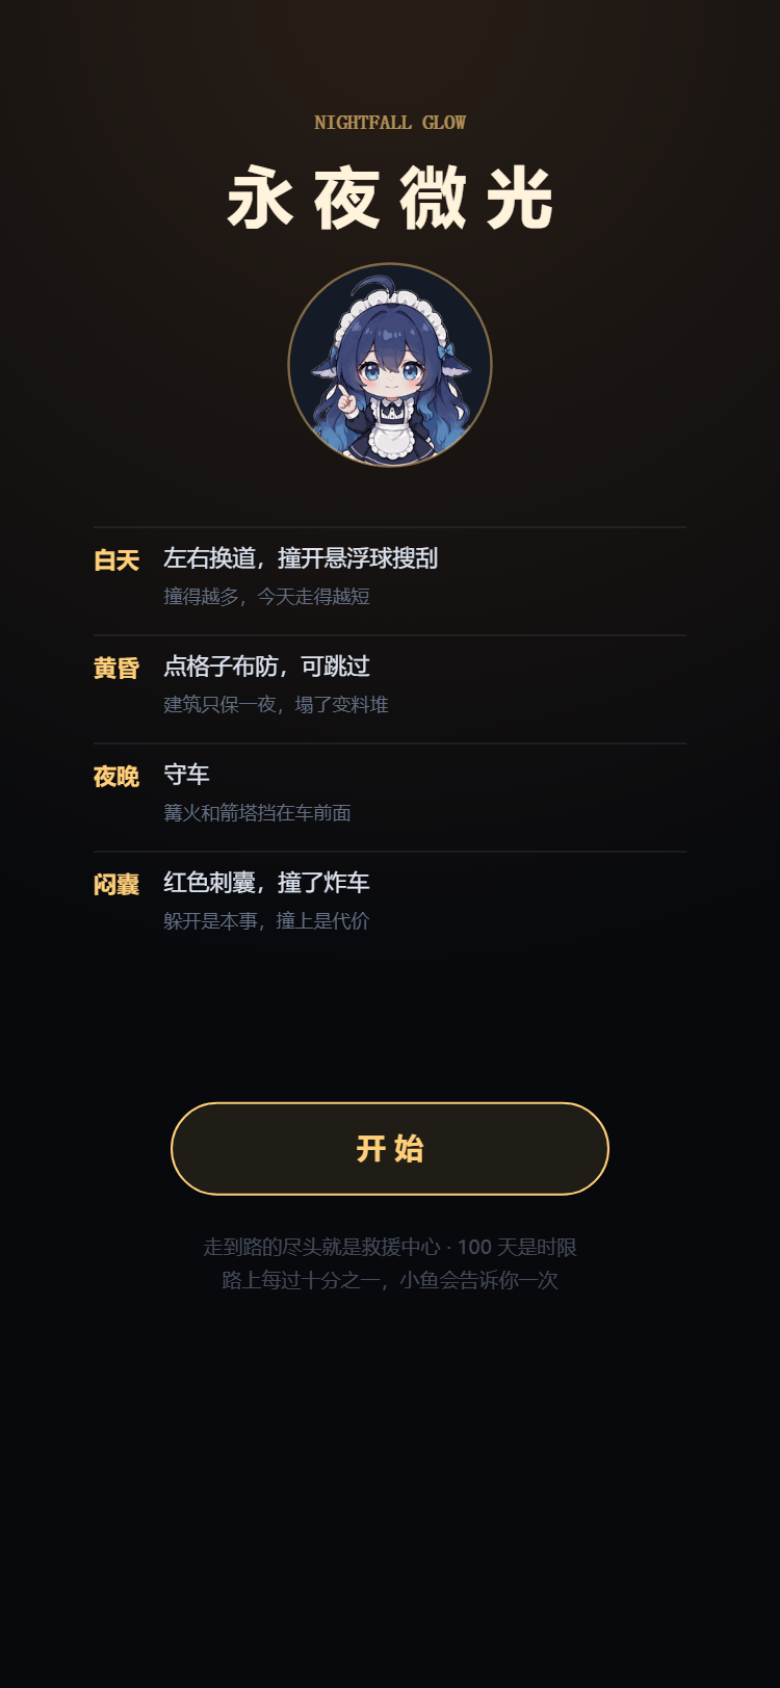
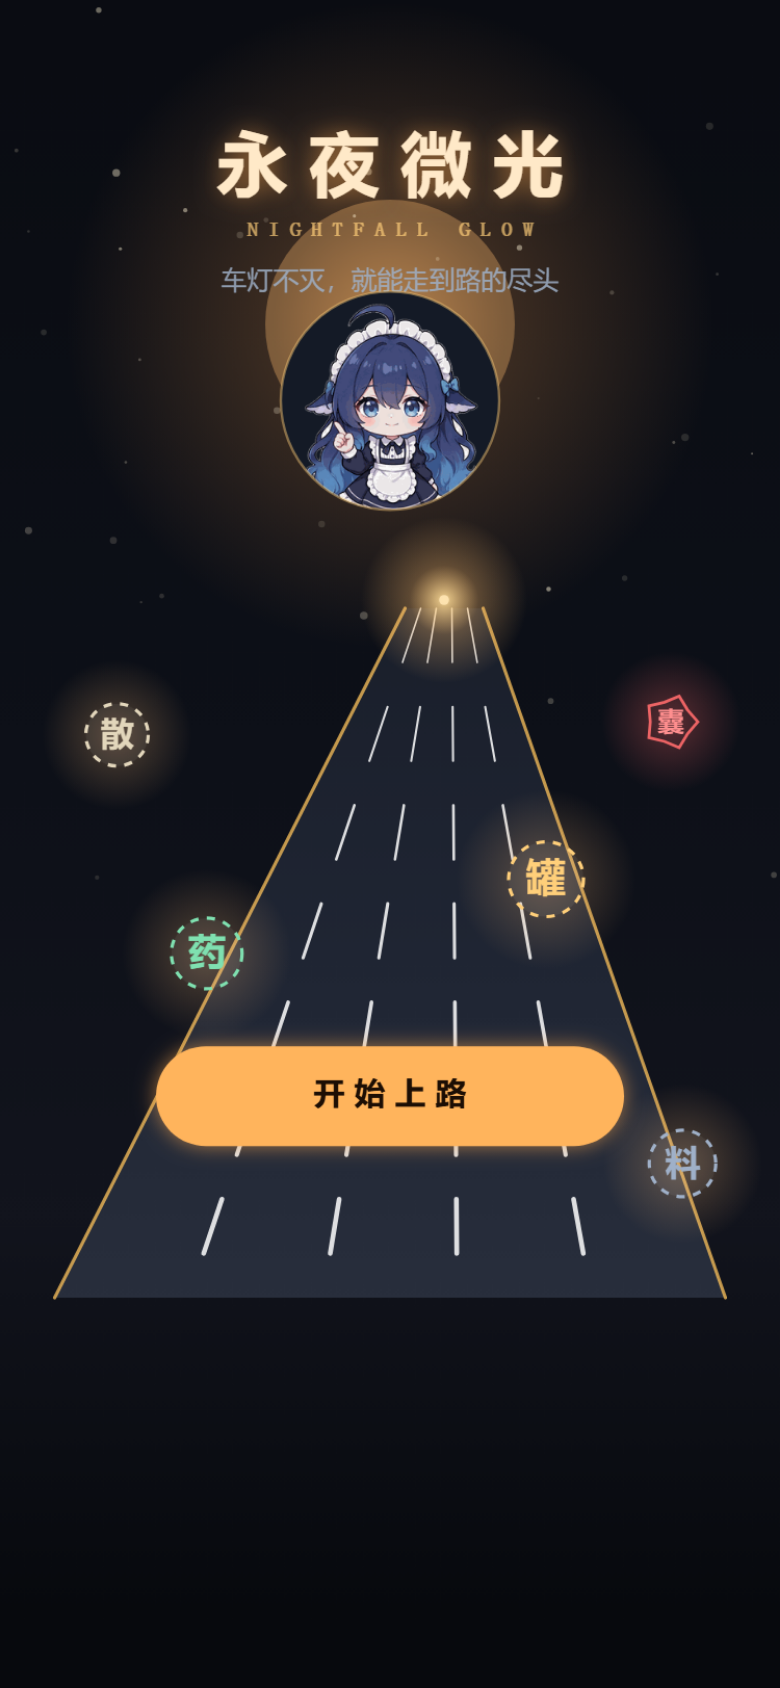
v2.11 封面重做：海报级画面替代文字版式
用户反馈「封面不出彩，看着没啥吸引力」。

旧封面 = 纯黑底 + 居中头像 + 四行规则文字 + 空心按钮，无画面感。

新封面（电影海报思路，全部复用游戏自己的视觉语言）：
- 背景：夜空渐变 + 尘幕暗黄太阳 + 闪烁星点（固定种子不抖）
- 主体：一条斜向远方的公路（冷黑路面 + 白虚线 + 黄路沿，与游戏内风格一致）
- 玩法元素：散/罐/药/料四色悬浮球 + 红色闷囊漂浮在路上（带呼吸浮动与光晕）
- 主题意象：路顶端一颗救援中心的暖光点
- 标题「永夜微光」发光大字 + NIGHTFALL GLOW + 副标题「车灯不灭，就能走到路的尽头」
- 小鱼头像加大并轻微浮动
- 按钮：实心暖光「开始上路」/ 有档时实心绿「继续·第N天·P%」，带呼吸光晕
- 新增 roundRectPath 圆角路径工具

验证：Node 3 局 89 天 / 803~808 户全胜；无档/有档两版封面截图正常。

diff --git a/minigame/js/game.js b/minigame/js/game.js
@@ -1871,72 +1871,262 @@ function drawAvatar(x, y, r) {
 }
 
 function drawCover() {
-  ctx.fillStyle = "#07090d";
-  ctx.fillRect(0, 0, W, H);
-  var g = ctx.createRadialGradient(W / 2, 0, 20, W / 2, 0, H * 0.62);
-  g.addColorStop(0, "rgba(255,166,84,.13)");
-  g.addColorStop(1, "rgba(255,166,84,0)");
+  var t = (typeof performance !== "undefined" && performance.now) ? performance.now() : 0;
+  var tt = t / 1000;
+
+  /* ---- 背景：夜空 + 尘幕太阳 ---- */
+  var g = ctx.createLinearGradient(0, 0, 0, H);
+  g.addColorStop(0, "#0a0c12");
+  g.addColorStop(0.45, "#0d1018");
+  g.addColorStop(0.75, "#12141d");
+  g.addColorStop(1, "#07090d");
   ctx.fillStyle = g;
   ctx.fillRect(0, 0, W, H);
 
-  txt("NIGHTFALL GLOW", W / 2, H * 0.075, 10, "rgba(255,207,122,.65)", "center", "600", "monospace");
-  txt("永 夜 微 光", W / 2, H * 0.125, 32, "#fff3dc", "center", "700");
-  drawAvatar(W / 2, H * 0.225, Math.min(52, W * 0.13));
+  /* 尘幕太阳：一轮被灰霾压住的暗黄 */
+  var sunX = W * 0.5, sunY = H * 0.20, sunR = W * 0.16;
+  var sg = ctx.createRadialGradient(sunX, sunY, 2, sunX, sunY, sunR * 2.6);
+  sg.addColorStop(0, "rgba(255,176,96,.55)");
+  sg.addColorStop(0.35, "rgba(255,166,84,.20)");
+  sg.addColorStop(1, "rgba(255,166,84,0)");
+  ctx.fillStyle = sg;
+  ctx.fillRect(0, 0, W, H);
+  ctx.save();
+  ctx.beginPath(); ctx.arc(sunX, sunY, sunR, 0, 6.2832);
+  ctx.fillStyle = "rgba(255,188,110,.34)";
+  ctx.fill();
+  ctx.restore();
 
-  var rules = [
-    ["白天", "左右换道，撞开悬浮球搜刮", "撞得越多，今天走得越短"],
-    ["黄昏", "点格子布防，可跳过", "建筑只保一夜，塌了变料堆"],
-    ["夜晚", "守车", "篝火和箭塔挡在车前面"],
-    ["闷囊", "红色刺囊，撞了炸车", "躲开是本事，撞上是代价"]
+  /* 星点（固定伪随机，不抖） */
+  ctx.save();
+  var seed = 987654321;
+  function srand() { seed = (seed * 1103515245 + 12345) & 0x7fffffff; return seed / 0x7fffffff; }
+  for (var si = 0; si < 40; si++) {
+    var sx = srand() * W, sy = srand() * H * 0.55;
+    var ss = 0.5 + srand() * 1.4;
+    var sa = 0.12 + srand() * 0.5 * (0.5 + 0.5 * Math.sin(tt * 1.5 + si));
+    ctx.fillStyle = "rgba(255,244,214," + sa.toFixed(3) + ")";
+    ctx.beginPath(); ctx.arc(sx, sy, ss, 0, 6.2832); ctx.fill();
+  }
+  ctx.restore();
+
+  /* ---- 公路：一条斜向远方的冷黑路面（呼应游戏内风格） ---- */
+  var roadTop = H * 0.375, roadBot = H * 0.80;
+  var roadWTop = W * 0.10, roadWBot = W * 0.86;
+  var cx = W * 0.5;
+  var roadTilt = 26;  // 左高右低，带斜角
+  ctx.save();
+  ctx.beginPath();
+  ctx.moveTo(cx - roadWTop / 2 + roadTilt, roadTop);
+  ctx.lineTo(cx + roadWTop / 2 + roadTilt, roadTop);
+  ctx.lineTo(cx + roadWBot / 2, roadBot);
+  ctx.lineTo(cx - roadWBot / 2, roadBot);
+  ctx.closePath();
+  var rg = ctx.createLinearGradient(0, roadTop, 0, roadBot);
+  rg.addColorStop(0, "#1a1f2b");
+  rg.addColorStop(0.55, "#202634");
+  rg.addColorStop(1, "#282e3c");
+  ctx.fillStyle = rg;
+  ctx.fill();
+
+  /* 车道虚线（白，近粗远细）+ 黄色边线（银护栏感） */
+  ctx.strokeStyle = "rgba(255,255,255,.85)";
+  ctx.lineCap = "round";
+  var laneN = 5;
+  for (var lc = 1; lc < laneN; lc++) {
+    var frac = lc / laneN;
+    var dxTop = cx + roadTilt + (frac - 0.5) * roadWTop;
+    var dxBot = cx + (frac - 0.5) * roadWBot;
+    var segN = 7;
+    for (var sn = 0; sn < segN; sn++) {
+      var p0 = sn / segN, p1 = (sn + 0.55) / segN;
+      var y0 = roadTop + (roadBot - roadTop) * p0;
+      var y1 = roadTop + (roadBot - roadTop) * p1;
+      var xa = dxTop + (dxBot - dxTop) * p0;
+      var xb = dxTop + (dxBot - dxTop) * p1;
+      ctx.lineWidth = 0.6 + 1.8 * (p0 + 0.1);
+      ctx.beginPath(); ctx.moveTo(xa, y0); ctx.lineTo(xb, y1); ctx.stroke();
+    }
+  }
+  /* 黄色路沿（左右两条） */
+  ctx.strokeStyle = "#ffc45c";
+  ctx.lineWidth = 1.6;
+  ctx.globalAlpha = 0.75;
+  ctx.beginPath();
+  ctx.moveTo(cx - roadWTop / 2 + roadTilt, roadTop);
+  ctx.lineTo(cx - roadWBot / 2, roadBot);
+  ctx.stroke();
+  ctx.beginPath();
+  ctx.moveTo(cx + roadWTop / 2 + roadTilt, roadTop);
+  ctx.lineTo(cx + roadWBot / 2, roadBot);
+  ctx.stroke();
+  ctx.globalAlpha = 1;
+  ctx.restore();
+
+  /* ---- 路面上的悬浮球：核心玩法元素，带暖光晕 ---- */
+  var orbDefs = [
+    { ch: "散", col: "#e2d6bb", x: 0.15, y: 0.455, r: 15 },
+    { ch: "罐", col: "#ffcf7a", x: 0.70, y: 0.545, r: 18 },
+    { ch: "药", col: "#7fe0b0", x: 0.265, y: 0.585, r: 17 },
+    { ch: "料", col: "#9fb0c8", x: 0.875, y: 0.715, r: 16 }
   ];
-  var ry = H * 0.325, rh = Math.min(52, (H * 0.62 - ry) / 4);
-  for (var i = 0; i < rules.length; i++) {
-    var r0 = rules[i];
+  for (var oi = 0; oi < orbDefs.length; oi++) {
+    var od = orbDefs[oi];
+    var ox = W * od.x, oy = H * od.y;
+    var bob = Math.sin(tt * 1.8 + oi * 1.7) * 3;
+    var oyy = oy + bob;
+    /* 光晕 */
+    var og = ctx.createRadialGradient(ox, oyy, 2, ox, oyy, od.r * 2.4);
+    og.addColorStop(0, "rgba(255,190,120,.28)");
+    og.addColorStop(1, "rgba(255,190,120,0)");
+    ctx.fillStyle = og;
+    ctx.beginPath(); ctx.arc(ox, oyy, od.r * 2.4, 0, 6.2832); ctx.fill();
+    /* 球体 */
     ctx.save();
-    ctx.strokeStyle = "rgba(255,255,255,.07)";
-    ctx.beginPath(); ctx.moveTo(W * 0.12, ry + i * rh); ctx.lineTo(W * 0.88, ry + i * rh); ctx.stroke();
+    ctx.beginPath(); ctx.arc(ox, oyy, od.r, 0, 6.2832);
+    ctx.fillStyle = "rgba(255,255,255,.06)";
+    ctx.fill();
+    ctx.setLineDash([4, 4]);
+    ctx.strokeStyle = od.col;
+    ctx.lineWidth = 1.6;
+    ctx.stroke();
     ctx.restore();
-    txt(r0[0], W * 0.12, ry + i * rh + rh * 0.32, 11, "#ffcf7a", "left", "700");
-    txt(r0[1], W * 0.21, ry + i * rh + rh * 0.30, 11, "#dfe6f2", "left", "500");
-    txt(r0[2], W * 0.21, ry + i * rh + rh * 0.66, 9, "rgba(111,124,146,.9)", "left", "400");
+    txt(od.ch, ox, oyy + 1, od.r * 1.05, od.col, "center", "700");
+  }
+  /* 一个红色闷囊（危险品） */
+  var hz = { x: W * 0.86, y: H * 0.445, r: 13 };
+  var hzg = ctx.createRadialGradient(hz.x, hz.y, 2, hz.x, hz.y, hz.r * 2.6);
+  hzg.addColorStop(0, "rgba(255,107,107,.30)");
+  hzg.addColorStop(1, "rgba(255,107,107,0)");
+  ctx.fillStyle = hzg;
+  ctx.beginPath(); ctx.arc(hz.x, hz.y, hz.r * 2.6, 0, 6.2832); ctx.fill();
+  ctx.save();
+  ctx.beginPath();
+  for (var hi = 0; hi < 10; hi++) {
+    var ha = hi / 10 * 6.2832;
+    var hr = hi % 2 ? hz.r * 0.76 : hz.r * 1.0;
+    var hx = hz.x + Math.cos(ha) * hr, hy = hz.y + Math.sin(ha) * hr;
+    if (hi === 0) ctx.moveTo(hx, hy); else ctx.lineTo(hx, hy);
+  }
+  ctx.closePath();
+  ctx.strokeStyle = "rgba(255,107,107,.9)";
+  ctx.lineWidth = 1.4;
+  ctx.stroke();
+  ctx.restore();
+  txt("囊", hz.x, hz.y + 1, 13, "#ff8f8f", "center", "700");
+
+  /* ---- 远处暖光点（救援中心的灯，呼应主题） ---- */
+  var glX = cx + roadTilt, glY = roadTop - 4;
+  var glg = ctx.createRadialGradient(glX, glY, 1, glX, glY, 40);
+  glg.addColorStop(0, "rgba(255,220,150,.9)");
+  glg.addColorStop(0.4, "rgba(255,190,110,.30)");
+  glg.addColorStop(1, "rgba(255,190,110,0)");
+  ctx.fillStyle = glg;
+  ctx.beginPath(); ctx.arc(glX, glY, 40, 0, 6.2832); ctx.fill();
+  ctx.fillStyle = "rgba(255,230,180,.9)";
+  ctx.beginPath(); ctx.arc(glX, glY, 2.4, 0, 6.2832); ctx.fill();
+
+  /* ---- 标题：发光大字 ---- */
+  var titleY = H * 0.105;
+  ctx.save();
+  ctx.shadowColor = "rgba(255,170,80,.55)";
+  ctx.shadowBlur = 22;
+  ctx.fillStyle = "#ffe9c8";
+  ctx.font = "700 34px \"PingFang SC\",\"Microsoft YaHei\",sans-serif";
+  ctx.textAlign = "center"; ctx.textBaseline = "middle";
+  ctx.fillText("永 夜 微 光", W / 2, titleY);
+  ctx.restore();
+  ctx.save();
+  ctx.fillStyle = "rgba(255,207,122,.7)";
+  ctx.font = "600 10px monospace";
+  ctx.textAlign = "center"; ctx.textBaseline = "middle";
+  ctx.fillText("N I G H T F A L L   G L O W", W / 2, titleY + 28);
+  ctx.restore();
+  /* 副标题 */
+  ctx.save();
+  ctx.fillStyle = "rgba(159,176,200,.85)";
+  ctx.font = "500 12.5px \"PingFang SC\",\"Microsoft YaHei\",sans-serif";
+  ctx.textAlign = "center"; ctx.textBaseline = "middle";
+  ctx.fillText("车灯不灭，就能走到路的尽头", W / 2, titleY + 54);
+  ctx.restore();
+
+  /* ---- 小鱼：放大、带暖描边、轻微浮动 ---- */
+  var avatarR = Math.min(56, W * 0.14);
+  var avatarY = H * 0.245 + Math.sin(tt * 1.2) * 2.5;
+  drawAvatar(W / 2, avatarY, avatarR);
+
+  /* ---- 底部按钮区 ---- */
+  var bw2 = Math.min(230, W * 0.6), bh2 = 48, bx2 = (W - bw2) / 2;
+  var sv = loadSave();
+  var breathe = 1 + Math.sin(tt * 2.6) * 0.025;
+
+  if (sv) {
+    var svPct = Math.floor(clamp((sv.totalHouse || 0) / HOUSE_TOTAL, 0, 1) * 100);
+    var contY = H * 0.615;
+    /* 继续按钮：实心绿，发光 */
+    ctx.save();
+    ctx.shadowColor = "rgba(127,224,176,.55)";
+    ctx.shadowBlur = 18 * breathe;
+    ctx.fillStyle = "#2fbf7f";
+    ctx.beginPath();
+    roundRectPath(bx2, contY, bw2, bh2, bh2 / 2);
+    ctx.fill();
+    ctx.restore();
+    ctx.fillStyle = "#07130d";
+    ctx.font = "600 14px \"PingFang SC\",\"Microsoft YaHei\",sans-serif";
+    ctx.textAlign = "center"; ctx.textBaseline = "middle";
+    ctx.fillText("继续 · 第 " + sv.day + " 天 · " + svPct + "%", W / 2, contY + bh2 / 2);
+    coverBtnCont = { x: bx2, y: contY, w: bw2, h: bh2 };
+
+    var ry2 = contY + bh2 + 14, rh2 = 34;
+    ctx.save();
+    ctx.strokeStyle = "rgba(255,207,122,.5)";
+    ctx.lineWidth = 1;
+    ctx.beginPath(); roundRectPath(bx2, ry2, bw2, rh2, rh2 / 2); ctx.stroke();
+    ctx.restore();
+    ctx.fillStyle = "rgba(255,207,122,.8)";
+    ctx.font = "500 12px \"PingFang SC\",\"Microsoft YaHei\",sans-serif";
+    ctx.textAlign = "center"; ctx.textBaseline = "middle";
+    ctx.fillText("重新开始", W / 2, ry2 + rh2 / 2);
+    coverBtn = { x: bx2, y: ry2, w: bw2, h: rh2 };
+  } else {
+    var by2 = H * 0.645;
+    ctx.save();
+    ctx.shadowColor = "rgba(255,170,80,.6)";
+    ctx.shadowBlur = 20 * breathe;
+    ctx.fillStyle = "#ffb45c";
+    ctx.beginPath();
+    roundRectPath(bx2, by2, bw2, bh2, bh2 / 2);
+    ctx.fill();
+    ctx.restore();
+    ctx.fillStyle = "#1c0e04";
+    ctx.font = "700 15px \"PingFang SC\",\"Microsoft YaHei\",sans-serif";
+    ctx.textAlign = "center"; ctx.textBaseline = "middle";
+    ctx.fillText("开 始 上 路", W / 2, by2 + bh2 / 2);
+    coverBtn = { x: bx2, y: by2, w: bw2, h: bh2 };
   }
 
+  /* 最好成绩 */
   var b = loadBest();
   if (b) {
     var bs = b.won ? ("最好：通关 · 第 " + b.day + " 天") : ("最好：走了 " + b.pct + "%");
-    txt(bs, W / 2, H * 0.60 + rh * 0.2, 10, "rgba(159,176,200,.55)", "center", "", "monospace");
+    ctx.fillStyle = "rgba(159,176,200,.6)";
+    ctx.font = "10px monospace";
+    ctx.textAlign = "center"; ctx.textBaseline = "middle";
+    ctx.fillText(bs, W / 2, H * 0.855);
   }
+}
 
-  var bw2 = Math.min(210, W * 0.56), bh2 = 44, bx2 = (W - bw2) / 2;
-  var sv = loadSave();
-  var by2 = sv ? H * 0.60 : H * 0.68;
-  if (sv) {
-    /* 有进度：上面大按钮继续，下面小按钮重开 */
-    var svPct = Math.floor(clamp((sv.totalHouse || 0) / HOUSE_TOTAL, 0, 1) * 100);
-    var contY = H * 0.615;
-    ctx.save();
-    box(bx2, contY, bw2, bh2, "#7fe0b0", "rgba(127,224,176,.10)", 22);
-    ctx.restore();
-    txt("继续 · 第 " + sv.day + " 天 · " + svPct + "%", W / 2, contY + bh2 / 2 + 1, 12.5, "#7fe0b0", "center", "600");
-    coverBtnCont = { x: bx2, y: contY, w: bw2, h: bh2 };
-
-    var ry2 = contY + bh2 + 14, rh2 = 32;
-    ctx.save();
-    box(bx2, ry2, bw2, rh2, "rgba(255,207,122,.4)", "transparent", 16);
-    ctx.restore();
-    txt("重新开始", W / 2, ry2 + rh2 / 2 + 1, 11, "rgba(255,207,122,.75)", "center", "500");
-    coverBtn = { x: bx2, y: ry2, w: bw2, h: rh2 };
-    by2 = ry2;
-  } else {
-    coverBtnCont = null;
-    ctx.save();
-    box(bx2, by2, bw2, bh2, "#ffcf7a", "rgba(255,207,122,.10)", 22);
-    ctx.restore();
-    txt("开 始", W / 2, by2 + bh2 / 2 + 1, 14, "#ffcf7a", "center", "600");
-  }
-
-  txt("走到路的尽头就是救援中心 · 100 天是时限", W / 2, by2 + bh2 + 26, 9.5, "rgba(159,176,200,.4)", "center");
-  txt("路上每过十分之一，小鱼会告诉你一次", W / 2, by2 + bh2 + 42, 9.5, "rgba(159,176,200,.4)", "center");
+/* 圆角矩形路径（Canvas 无 roundRect 时用） */
+function roundRectPath(x, y, w, h, r) {
+  var rr = Math.min(r, w / 2, h / 2);
+  ctx.beginPath();
+  ctx.moveTo(x + rr, y);
+  ctx.arcTo(x + w, y, x + w, y + h, rr);
+  ctx.arcTo(x + w, y + h, x, y + h, rr);
+  ctx.arcTo(x, y + h, x, y, rr);
+  ctx.arcTo(x, y, x + w, y, rr);
+  ctx.closePath();
 }
 
 var coverBtnCont = null;
